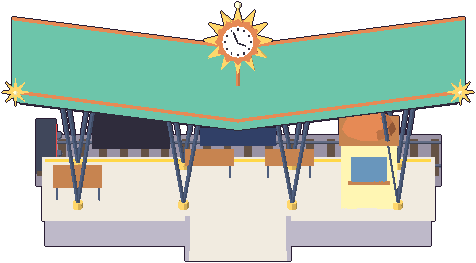
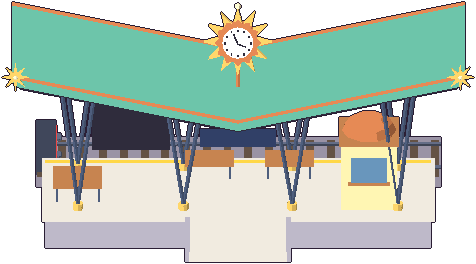
Buildings track BD-6: the station's boomerang canopy sweeps up further (1.35 m at its tips)
Claude-Session: https://claude.ai/code/session_019UpAFzgf5s486CcsYvqVQD

diff --git a/tools/build-station-trains.py b/tools/build-station-trains.py
@@ -267,7 +267,7 @@ def station():
     # BD-6: a Googie boomerang canopy: a verdigris slab swept up into a wide V along the platform, a dark underside,
     # copper fascia and a neon line along its front edge at night, on splayed V columns of iron with brass feet
     rz, hl, hd = top + 2.95, 6.7, 2.25  # the canopy's lowest point (the middle), its half length and half depth
-    up = 0.85  # how far its tips sweep up
+    up = 1.35  # how far its tips sweep up
     cyc = y0 + pd / 2
     lo = lambda x: rz + up * abs(x) / hl  # the canopy's underside at x
     V = [(-hl - 0.2, up + 0.02), (0, 0), (hl + 0.2, up + 0.02), (hl + 0.35, up + 0.3), (0, 0.24), (-hl - 0.35, up + 0.3)]
